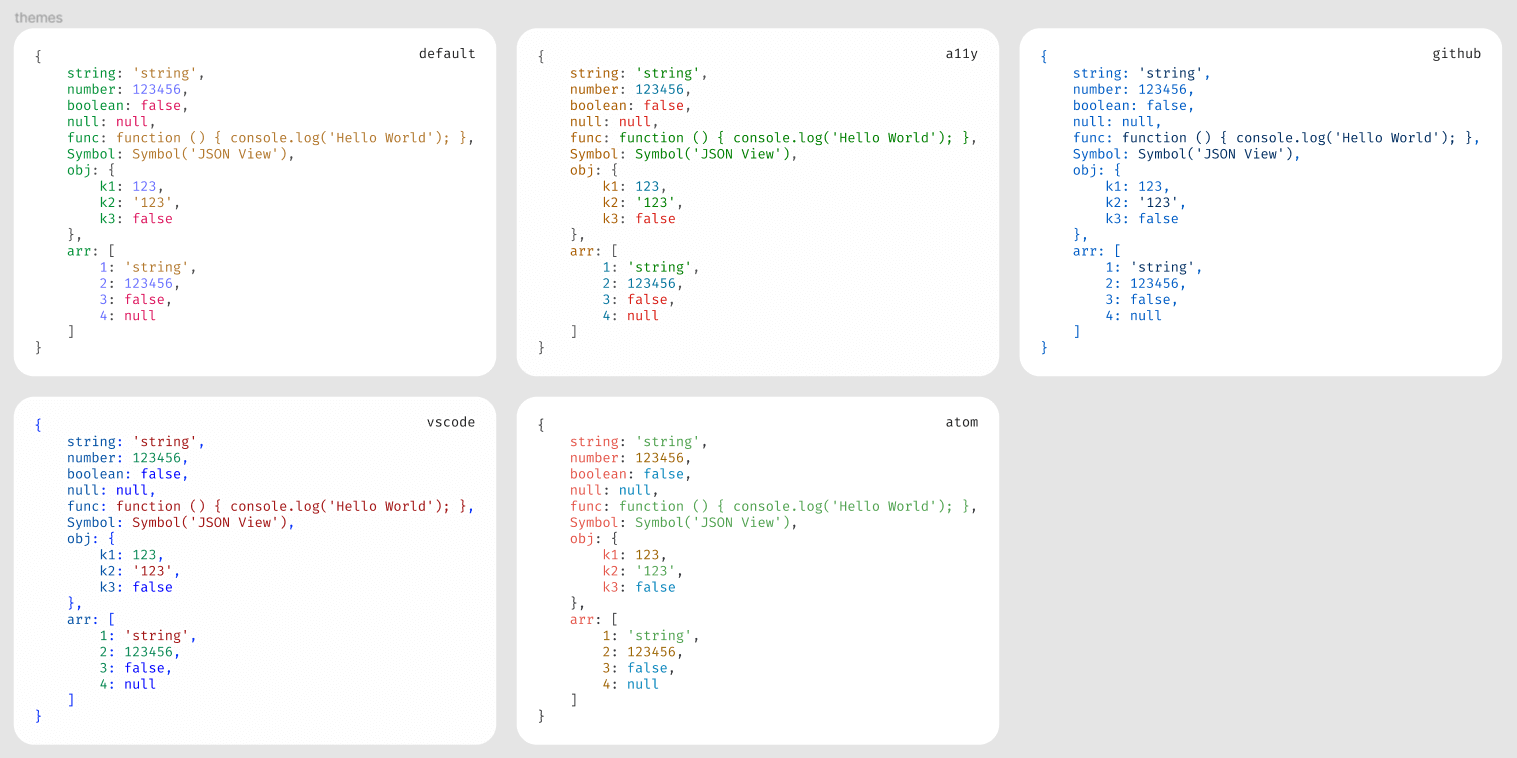
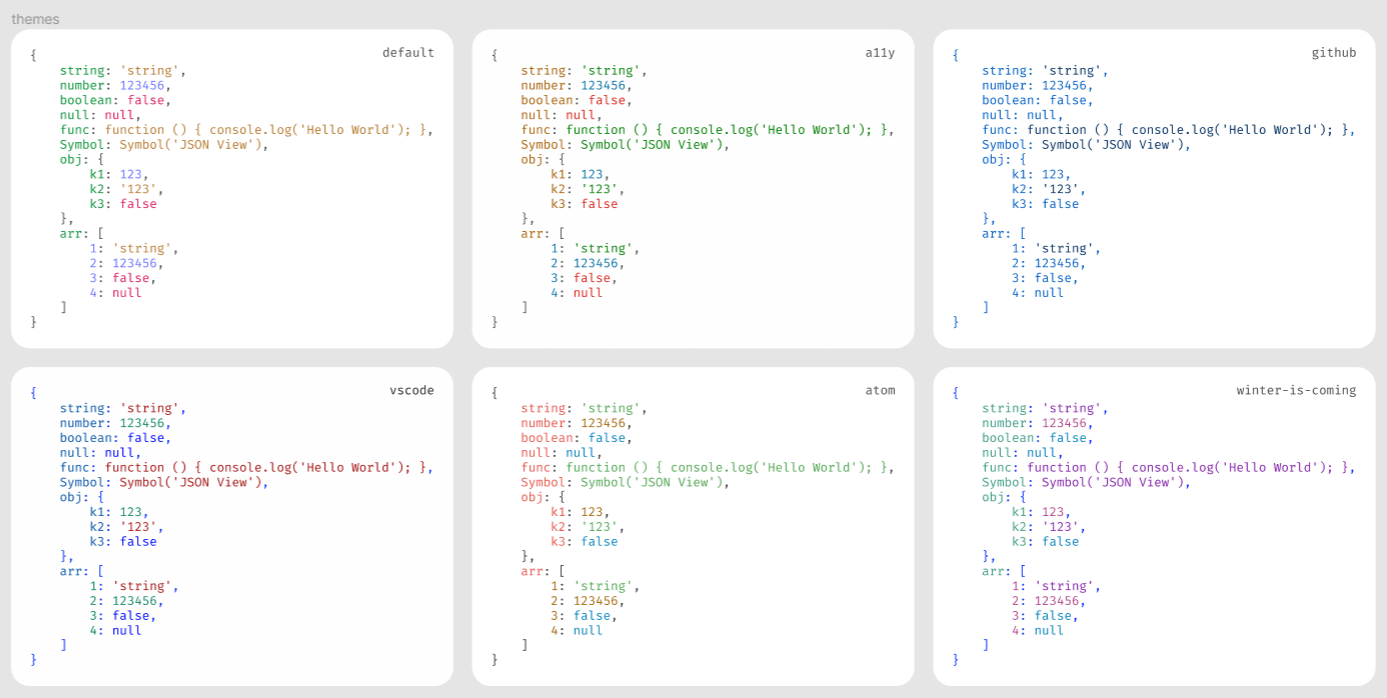
Add one more theme and update README

diff --git a/src/dark.css b/src/dark.css
@@ -16,7 +16,7 @@
 	--json-boolean: #ffa07a;
 	--json-null: #ffa07a;
 }
-:is(.dark .json-view_a11y, .dark.json-view_github) {
+:is(.dark .json-view_github, .dark.json-view_github) {
 	color: #79b8ff;
 	--json-property: #79b8ff;
 	--json-index: #79b8ff;
@@ -25,7 +25,7 @@
 	--json-boolean: #79b8ff;
 	--json-null: #79b8ff;
 }
-:is(.dark .json-view_a11y, .dark.json-view_vscode) {
+:is(.dark .json-view_vscode, .dark.json-view_vscode) {
 	color: #da70d6;
 	--json-property: #9cdcfe;
 	--json-index: #b5cea8;
@@ -34,7 +34,7 @@
 	--json-boolean: #569cd6;
 	--json-null: #569cd6;
 }
-:is(.dark .json-view_a11y, .dark.json-view_atom) {
+:is(.dark .json-view_atom, .dark.json-view_atom) {
 	color: #abb2bf;
 	--json-property: #e06c75;
 	--json-index: #d19a66;
@@ -42,4 +42,13 @@
 	--json-string: #98c379;
 	--json-boolean: #56b6c2;
 	--json-null: #56b6c2;
+}
+:is(.dark .json-view_winter-is-coming, .dark.json-view_winter-is-coming) {
+	color: #a7dbf7;
+	--json-property: #91dacd;
+	--json-index: #8dec95;
+	--json-number: #8dec95;
+	--json-string: #e0aff5;
+	--json-boolean: #f29fd8;
+	--json-null: #f29fd8;
 }

diff --git a/src/stories/theme.stories.tsx b/src/stories/theme.stories.tsx
@@ -251,3 +251,33 @@ export const Atom_Dark: StoryObj<TYPE_FC> = {
 		)
 	]
 }
+
+export const Winter_is_Coming: StoryObj<TYPE_FC> = {
+	args: {
+		theme: 'winter-is-coming'
+	},
+	decorators: [
+		Story => (
+			<div className='flex h-full items-center justify-center overflow-auto bg-[#eee] p-8'>
+				<div className='max-w-[600px] rounded-xl bg-[#fff] p-6 font-mono shadow backdrop-blur'>
+					<Story />
+				</div>
+			</div>
+		)
+	]
+}
+export const Winter_is_Coming_Dark: StoryObj<TYPE_FC> = {
+	args: {
+		theme: 'winter-is-coming',
+		dark: true
+	},
+	decorators: [
+		Story => (
+			<div className='flex h-full items-center justify-center overflow-auto bg-[#333] p-8'>
+				<div className='max-w-[600px] rounded-xl bg-[#011627] p-6 font-mono shadow backdrop-blur'>
+					<Story />
+				</div>
+			</div>
+		)
+	]
+}

diff --git a/src/style.css b/src/style.css
@@ -117,3 +117,12 @@
 	--json-boolean: #0184bc;
 	--json-null: #0184bc;
 }
+.json-view_winter-is-coming {
+	color: #0431fa;
+	--json-property: #3a9685;
+	--json-index: #ae408b;
+	--json-number: #ae408b;
+	--json-string: #8123a9;
+	--json-boolean: #0184bc;
+	--json-null: #0184bc;
+}

diff --git a/src/components/json-view.tsx b/src/components/json-view.tsx
@@ -51,7 +51,7 @@ interface Props {
 	onAdd?: OnAdd
 	onChange?: OnChange
 	dark?: boolean
-	theme?: 'default' | 'a11y' | 'github' | 'vscode' | 'atom'
+	theme?: 'default' | 'a11y' | 'github' | 'vscode' | 'atom' |'winter-is-coming'
 }
 
 export default function JsonView({

diff --git a/README.md b/README.md
@@ -80,11 +80,13 @@ Every theme has a dark mode.
 
 ![Theme](theme.png)
 
-## Custom styles
-Here are the default theme codes, you can freely change color variables, such as `--json-property`, or others.
+## Custom themes
+
+Below are the default theme variables that you can easily customize to fit your needs.
+
 ```css
 .json-view {
-	display: block;
+	color: #4d4d4d;
 	--json-property: #009033;
 	--json-index: #676dff;
 	--json-number: #676dff;
@@ -117,7 +119,7 @@ react-json-view does not support React 18.
 - [ ] custom icon
 - [ ] more usability/scenarios
 - [ ] gif guide
-- [ ] more color themes(dark) **<=**
+- [x] more color themes(dark)
 - [ ] map/set viewer
 - [ ] display data type
 - [ ] display object size
